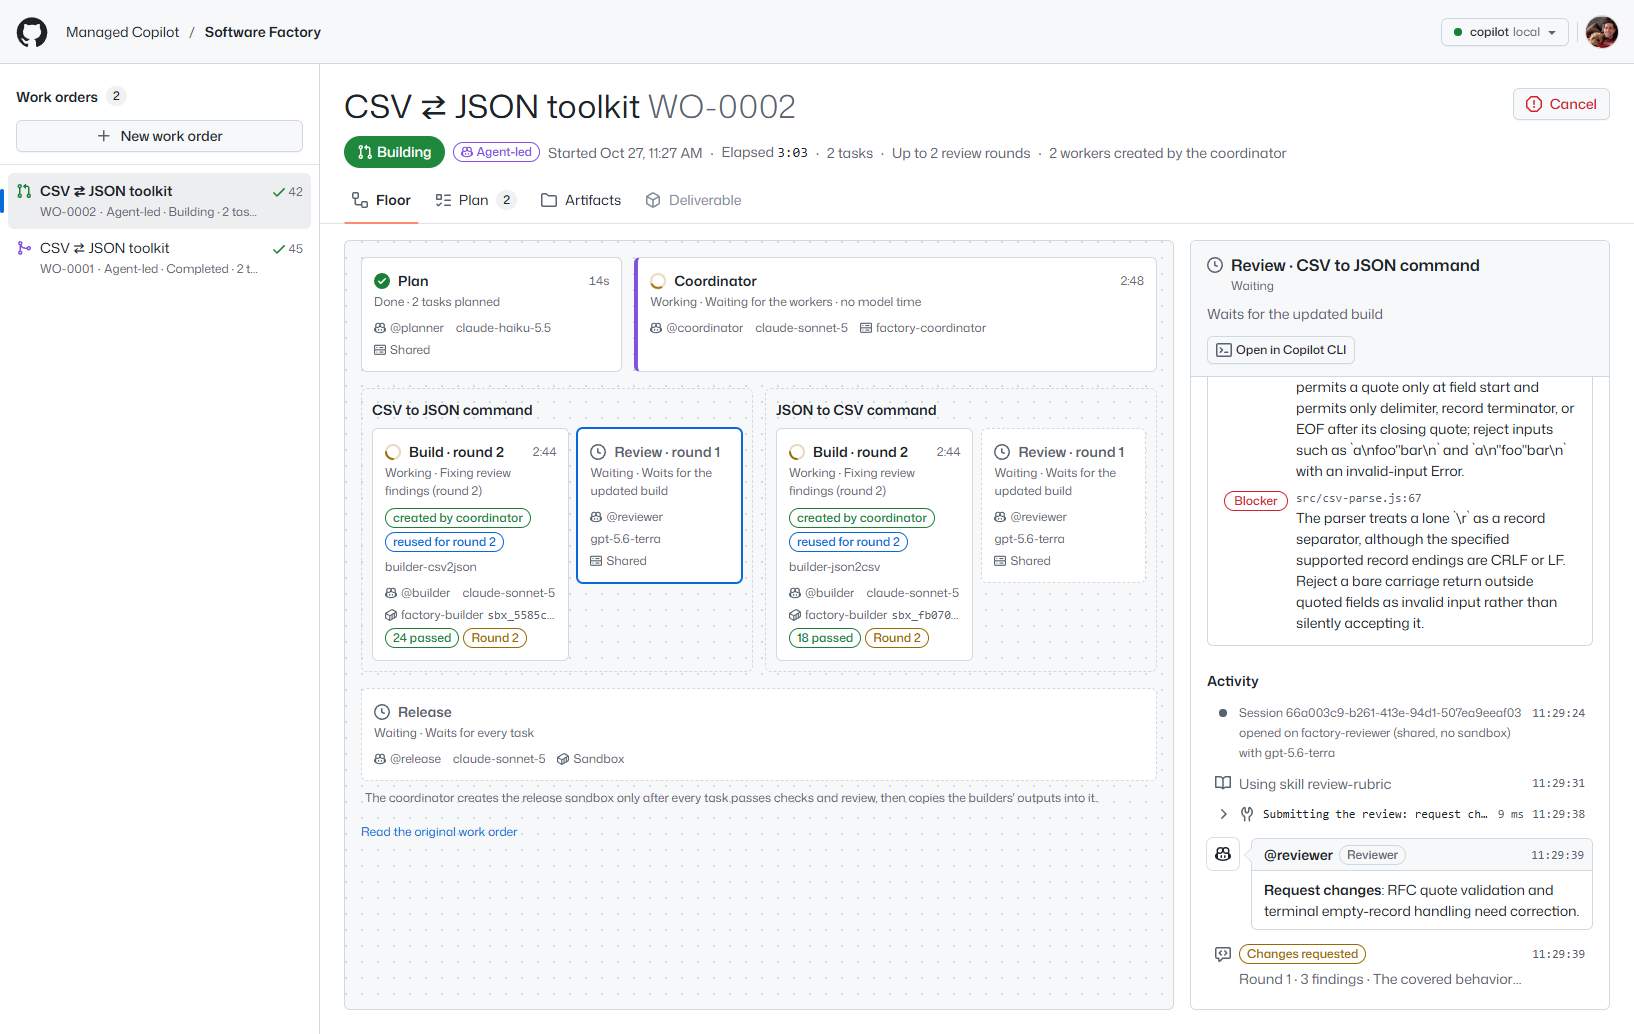
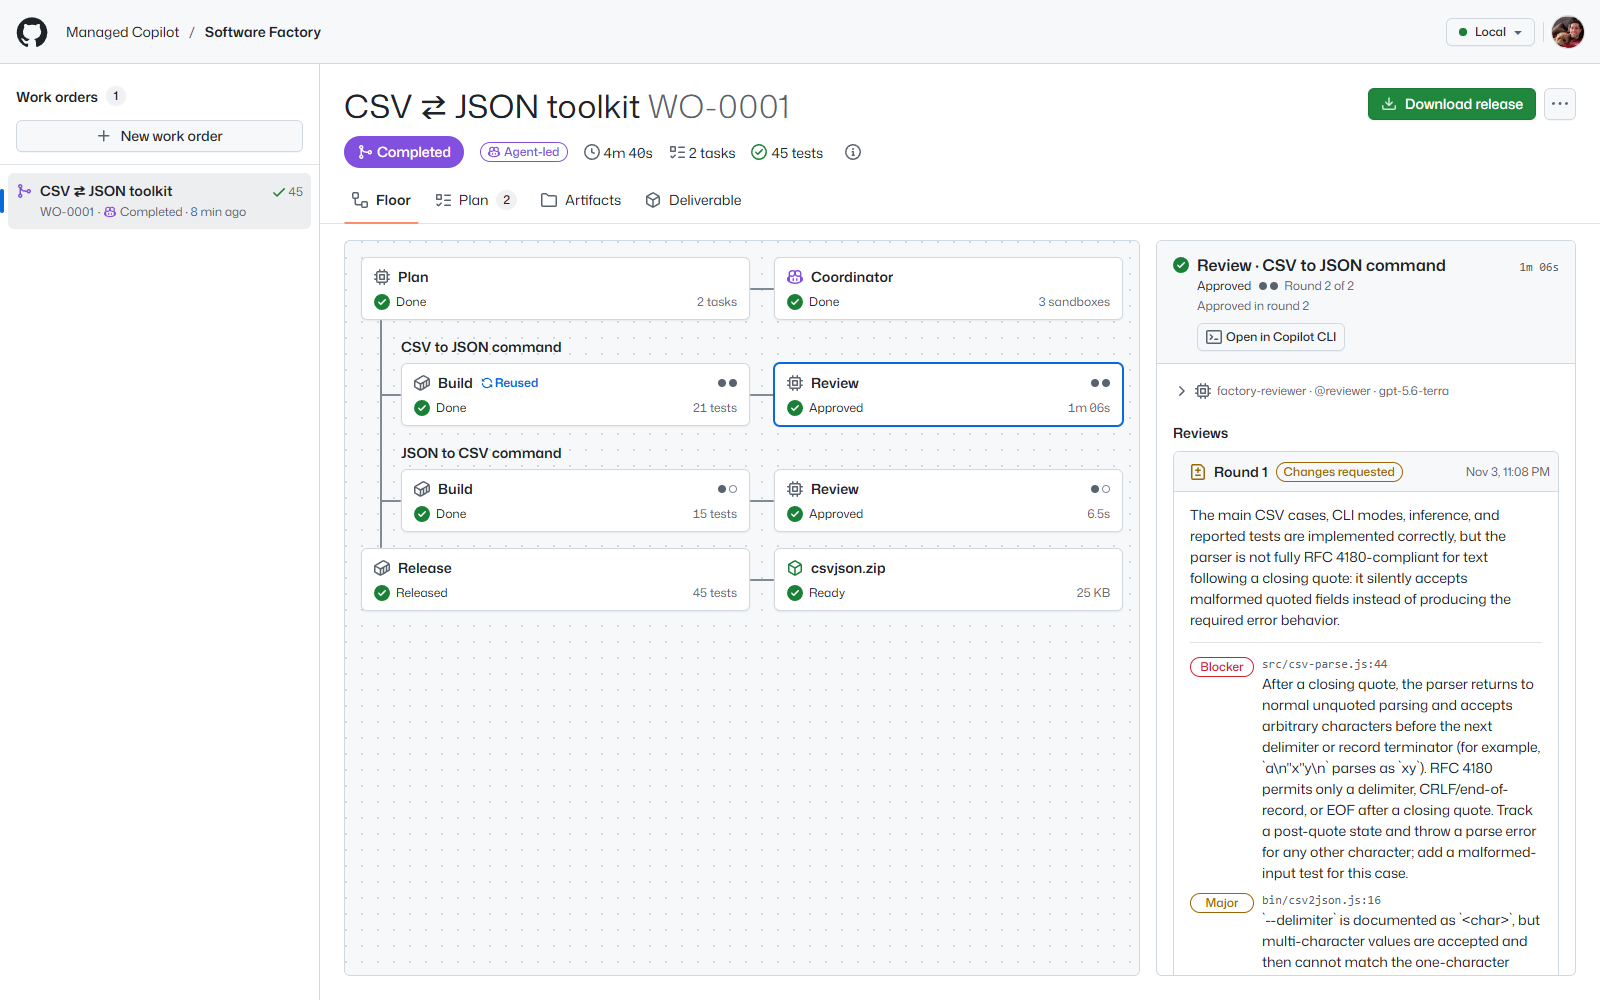
factory: README screenshots and copy for the new UI, from a real run
Recaptured home, floor, review, deliverable, artifacts, and the phone floor from
an agent-led CSV <-> JSON toolkit run on a local platform (45 tests in 4m 40s,
one builder reused for round 2). Describes the pipeline floor and calls Classic
mode App-driven (API value classic) in the README, architecture, and patterns.

diff --git a/demos/software-factory/README.md b/demos/software-factory/README.md
@@ -1,20 +1,22 @@
 # AI software factory
 
-A work order goes in; a tested, reviewed, and documented release comes out. In **Agent-led** mode (the default), a
-coordinator agent decides when to create builder sandboxes, when to reuse them for fixes, and when to create the
-release sandbox. The floor shows those workers and the coordinator's decisions live. The factory still validates the
-plan, checks real test reports, reviews on a second model, and accepts the deliverable.
+A work order goes in; a tested, reviewed, and documented release comes out. It runs down an assembly line: **Plan →
+Build → Review → Release**, and the product is the release. In **Agent-led** mode (the default), a coordinator agent
+decides when to create builder sandboxes, when to reuse them for fixes, and when to create the release sandbox. The
+floor shows those workers and the coordinator's decisions live. The factory still validates the plan, checks real test
+reports, reviews on a second model, and accepts the deliverable.
 
-**Classic** keeps the original app-orchestrated pipeline. Choose either mode on the new-work-order form or in the
-API. Both use the same planners, builders, reviewers, harness, and release gates, built on the stock
-`@github/copilot-sdk` and `@managed-copilot/sdk` with no runtime modifications.
+**App-driven** mode (API value `classic`) keeps the original pipeline that the app orchestrates itself. Choose either
+mode on the new-work-order form or in the API. Both use the same planners, builders, reviewers, harness, and release
+gates, built on the stock `@github/copilot-sdk` and `@managed-copilot/sdk` with no runtime modifications.
 
-![The agent-led floor: a coordinator, two builder sandboxes reused for review fixes, and a live log of its decisions](docs/screenshots/floor-building.png)
+![The agent-led floor: a coordinator, two builder sandboxes (one reused for review fixes), and a live log of its decisions](docs/screenshots/floor-building.png)
 
-*A real run of the CSV ⇄ JSON toolkit, not fixture data. The coordinator creates a worker per task, sends review
-findings back to the same workers, then creates the release worker and copies in the accepted outputs. In the first
-verified agent-led run, both builders were reused for round two and the release passed **45 tests in 5m 17s**. A second
-run restarted the factory mid-build, preserved the coordinator and both worker IDs, and passed **58 tests in 6m 31s**.*
+*A real run of the CSV ⇄ JSON toolkit, not fixture data. The coordinator created a builder per task; the reviewer sent
+two findings back on one of them, and the coordinator gave them to the **same builder** (marked **Reused**) for round
+two. It then created the release worker and copied in the accepted outputs; the release passed **45 tests in 4m 40s**.
+An earlier run restarted the factory mid-build, preserved the coordinator and both worker IDs, and passed **58 tests in
+6m 31s**.*
 
 ```mermaid
 flowchart LR
@@ -43,7 +45,7 @@ flowchart LR
 | Release | `factory-release` | a fresh sandbox | After the factory accepts every task, the coordinator creates this worker and copies the builders' published files into it. The factory verifies those bytes before preparing the inputs. The `release` agent adds integration tests and a README, runs the full suite, and publishes the bundle, patch, test report, and release notes. |
 
 The model creates **sessions and sandboxes from declared environments**, not arbitrary new environment definitions.
-Classic mode uses the same four original station environments without a coordinator.
+App-driven mode uses the same four original station environments without a coordinator.
 
 Managed Copilot features in play (see the [developer experience spec](../../docs/spec/developer-experience.md)):
 
@@ -65,14 +67,15 @@ Managed Copilot features in play (see the [developer experience spec](../../docs
 
 | | |
 | --- | --- |
-| ![Review station sending work back to the builder with a finding](docs/screenshots/review.png) | ![Deliverable: release notes, tests, and the bundle](docs/screenshots/deliverable.png) |
-| **Review sends work back.** The factory's reviewer runs on another model family. The coordinator sends its findings to the **same builder** for the next round, rather than provisioning another sandbox. | **The deliverable.** The release station integrates the tasks, adds integration tests and a README, and publishes the bundle, a patch, a test report, and release notes. |
-| ![Artifacts: the release patch in the diff viewer](docs/screenshots/artifacts-patch.png) | ![Home: templates and the new work order form](docs/screenshots/home.png) |
-| **Every artifact, every version.** Each station's published files, per round, with code, diff, Markdown, and test report viewers. | **Start from a template**, choose Agent-led or Classic, or describe your own work order; history survives restarts. |
+| ![Review station: round 1 sent findings back to the builder; round 2 approved](docs/screenshots/review.png) | ![Deliverable: one download, the release notes, checks, and each task's outcome](docs/screenshots/deliverable.png) |
+| **Review sends work back.** The factory's reviewer runs on another model family. Round 1's findings went to the **same builder** for round 2 (●● on the cards), rather than to a new sandbox. | **The deliverable.** The release station integrates the tasks, adds integration tests and a README, and publishes the bundle, a patch, a test report, and release notes. |
+| ![Artifacts: the release patch in the diff viewer](docs/screenshots/artifacts-patch.png) | ![Home: four templates, the mode switch, and the work order form](docs/screenshots/home.png) |
+| **Every artifact, every version.** Each station's published files, per round, with code, diff, Markdown, and test report viewers. | **Start from a template**, choose Agent-led or App-driven, or describe your own work order; history survives restarts. |
 
 <img src="docs/screenshots/mobile-floor.png" alt="The floor on a phone-sized screen" width="260" align="right">
 
-The floor adapts down to phone widths: stations stack top to bottom and the work order list becomes a drawer.
+The floor adapts down to phone widths: each lane's Build and Review stack top to bottom, and the work order list
+becomes a drawer.
 
 <br clear="right">
 
@@ -88,10 +91,13 @@ aspire run --non-interactive  # the platform, sandboxes, and the factory; open "
 ```
 
 The factory floor opens at <http://localhost:7480>. Pick the **CSV ⇄ JSON toolkit** template and press
-**Start work order** with Agent-led selected. Watch the coordinator create the builders, reuse them for any review
-fixes, and create the release sandbox only after the tasks pass. The decision log is the default side panel; select a
-station to see its reports, tests, and reviews. **Open in Copilot CLI** on the coordinator reaches the same session.
-Classic retains the original pipeline view and streamed station activity.
+**Start work order** with Agent-led selected. The floor is the pipeline: Plan and the coordinator on top, one lane per
+task (Build → Review, with ●●○ round dots), then Release and the deliverable. Watch the coordinator create the
+builders, reuse them for review fixes (a **Reused** marker on the build), and create the release sandbox only after
+the tasks pass. Each card shows where it runs (the coordinator, the shared runtime, or its own sandbox), its status,
+and one number; hover for the worker, sandbox ID, agent, and model. The coordinator's decisions are the default side
+panel; select a station for its reports, tests, and reviews. **Open in Copilot CLI** on the coordinator reaches the
+same session. App-driven shows the same pipeline without the coordinator.
 
 ### Scripted happy path
 
@@ -154,7 +160,8 @@ environments.
   only the files a builder added or changed. In Agent-led mode a new worker's first task is just to reply `READY`;
   preparation waits for that turn to finish, then writes the seed before returning the real task to the coordinator.
   For release, `copy_worker_files` stages `outputs/files` under `.factory/incoming/<task>/`. `prepare_release` verifies
-  those copied files against the accepted artifacts, then assembles them and handles conflicts just as Classic does.
+  those copied files against the accepted artifacts, then assembles them and handles conflicts just as App-driven mode
+  does.
 - **Tests are a gate.** A station passes only when the harness's report shows tests ran and none failed. If a turn
   ends without a passing check, the factory sends the agent back up to twice before failing the station. It also
   notices when a builder skipped re-running the check after a fix.
@@ -173,7 +180,7 @@ environments.
   than blindly resending their tasks. Interrupted preparation is idempotent; an uncertain review is run again.
   Cancelling stops workers through the platform's session-delete API without attaching to them; retry reuses the
   accepted plan and creates replacements for workers that were deleted.
-- **Classic restarts resume work as before.** A work order that was running when the factory stopped resumes from its
+- **App-driven restarts resume work as before.** A work order that was running when the factory stopped resumes from its
   last checkpoint. Plans and reviews are re-run, because they're cheap. Builders and the release reattach to their sandboxes and wait
   for the in-flight turn. If that turn didn't finish, the factory doesn't assume any of it did. It notes why on the
   floor and asks the agent to check its workspace and continue, telling it that the commands it was running may have
@@ -197,7 +204,7 @@ environments.
 | `HOST` | `127.0.0.1` | Interface to listen on (`0.0.0.0` in a container, together with `FACTORY_ALLOWED_HOSTS`) |
 | `MANAGED_COPILOT_URL` | local discovery | Gateway URL (Aspire sets it) |
 | `FACTORY_MODEL_PLANNER` / `_BUILDER` / `_REVIEWER` / `_RELEASE` / `_COORDINATOR` | first available preference | Override a station's model; agent-led builders and reviewers must use different models |
-| `FACTORY_MAX_SANDBOXES` | `4` | Sandboxes Classic runs at once across work orders; agent-led limits are the coordinator environment's `maxWorkers` |
+| `FACTORY_MAX_SANDBOXES` | `4` | Sandboxes App-driven work orders run at once; agent-led limits are the coordinator environment's `maxWorkers` |
 | `FACTORY_BUILD_TIMEOUT_MINUTES` and similar | 5 to 20 | Turn timeouts per station |
 | `FACTORY_COORDINATE_TIMEOUT_MINUTES` | `60` | A coordinator turn covers the whole job, including waits with no model calls |
 | `FACTORY_DATA_DIR` | `.data` | The factory's SQLite store |

diff --git a/docs/architecture.md b/docs/architecture.md
@@ -1001,10 +1001,10 @@ and quickstart snippet 14).
     as new work and a repeated call consumes no nudge or review round. Release inputs arrive by `copy_worker_files`
     under `.factory/incoming/<task>/` and are verified against the accepted artifacts. After a restart the factory
     resumes the same coordinator with its tools, stops only the coordinator's unfinished turn, and reconciles worker
-    IDs; cancelling deletes worker sessions through the REST API. Classic mode keeps the app-orchestrated pipeline on
-    the four station environments. On Azure (westus2, 2026-10-27), a factory run against the deployed gateway
-    completed a work order with three Container Apps sandboxes, one builder reused for two fix rounds, and a 47-test
-    release.
+    IDs; cancelling deletes worker sessions through the REST API. App-driven mode (API value `classic`) keeps the
+    app-orchestrated pipeline on the four station environments. On Azure (westus2, 2026-10-27), a factory run against
+    the deployed gateway completed a work order with three Container Apps sandboxes, one builder reused for two fix
+    rounds, and a 47-test release.
   - *Dispatch* (`demos/dispatch`). A conversation is a session of the `dispatch` orchestrator (four worker
     environments: Python, Node, web research, writer), rediscovered from `sessions.list` after every connection. Its
     view is projected from the coordinator's own events (worker tool calls and the permission events above), so a

diff --git a/docs/concepts/patterns.md b/docs/concepts/patterns.md
@@ -91,7 +91,7 @@ flowchart TD
 
 | Pattern | Scenarios it fits | Try it | See it in an app |
 | --- | --- | --- | --- |
-| **Isolated** | A coding agent that edits, builds, and tests a repository; data jobs | [Walkthrough 03](../../walkthroughs/03-sandbox/README.md) | The [software factory](../../demos/software-factory/README.md)'s Classic mode: a sandbox per build task |
+| **Isolated** | A coding agent that edits, builds, and tests a repository; data jobs | [Walkthrough 03](../../walkthroughs/03-sandbox/README.md) | The [software factory](../../demos/software-factory/README.md)'s App-driven mode: a sandbox per build task |
 | **Shared** | Support, sales, and Q&A chat over your own data, at volume | [Walkthrough 02](../../walkthroughs/02-your-own-tools/README.md) | The factory's planner and reviewer |
 | **Promotable** | An assistant that usually chats but sometimes needs to run code | [Walkthrough 04](../../walkthroughs/04-promotion/README.md) | — |
 | **Direct** | A harness with its own planning and sub-agents that must not run code on your host; tight edit-and-run loops | [Walkthrough 12](../../walkthroughs/12-direct-execution/README.md) | [Dispatch](../../demos/dispatch/README.md), **Work directly** |

diff --git a/README.md b/README.md
@@ -107,7 +107,7 @@ pnpm gallery                        # every demo and walkthrough on one page
 All three run under `aspire run` with real models and deploy to Azure with the same AppHost.
 
 <p align="center">
-  <img src="demos/software-factory/docs/screenshots/floor-building.png" alt="The software factory floor: a coordinator that created two builder sandboxes and reused them for review fixes" width="900">
+  <img src="demos/software-factory/docs/screenshots/floor-building.png" alt="The software factory floor: a coordinator that created two builder sandboxes and reused one for review fixes" width="900">
 </p>
 
 | Demo | What it shows |
